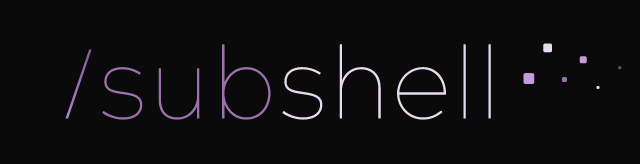
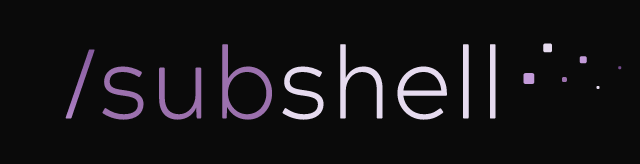
feat(brand): regenerate at Light 300 — wordmark and /s mark
Thin 100 read too weak beside the UI's label weights (operator revision
after seeing it live); measured stem width roughly doubles at icon scale.
Masters, generator font wiring, spec and brand README all follow.

Changed region(s): [[0.3438, 0.2744, 0.7812, 0.7317], [0.125, 0.3049, 0.3125, 0.7317], [0.0938, 0.5488, 0.125, 0.7317]]

diff --git a/brand/generate.ts b/brand/generate.ts
@@ -21,8 +21,8 @@ const DOCS_DIR = path.join(BRAND_DIR, "../docs/assets");
 // brand:generate is a root script, not a turbo task — no cache key to declare for.
 // biome-ignore lint/suspicious/noUndeclaredEnvVars: maintainer-local font path, outside turbo
 const fontDir = process.env.SUBSHELL_BRAND_FONTS_DIR ?? path.join(homedir(), "fonts", "acherus");
-/** Everything — wordmark and mark — is Thin 100 (operator choice after a 16px shoot-out). */
-const fontFiles = ["Acherus-Grotesque-Thin.otf"].map((f) => path.join(fontDir, f));
+/** Everything — wordmark and mark — is Light 300 (operator choice 2026-09-03: Thin read too weak beside the UI's label weights). */
+const fontFiles = ["Acherus-Grotesque-Light.otf"].map((f) => path.join(fontDir, f));
 for (const f of fontFiles) {
   if (!existsSync(f)) {
     console.error(
@@ -64,7 +64,7 @@ function render(master: string, mode: Mode, size: number): Buffer {
     font: {
       fontFiles,
       loadSystemFonts: false, // deterministic: only the licensed faces exist here
-      defaultFontFamily: "Acherus Grotesque Thin",
+      defaultFontFamily: "Acherus Grotesque Light",
     },
   });
   return Buffer.from(resvg.render().asPng());

diff --git a/docs/superpowers/specs/2026-09-02-subshell-branding-design.md b/docs/superpowers/specs/2026-09-02-subshell-branding-design.md
@@ -7,7 +7,7 @@ Tailwind theme, adopting Acherus as a UI font (UI stays on the system stack).
 
 ## 1. The identity
 
-Wordmark `/subshell` set in **Acherus Grotesque Thin (weight 100)**, styled as a directory
+Wordmark `/subshell` set in **Acherus Grotesque Light (weight 300)**, styled as a directory
 path with a terminal "bitcrash" dust tail. Favicon/app mark is the derived glyph **`/s`**.
 
 ### 1.1 Color tokens
@@ -37,7 +37,9 @@ decorative (exempt). All text-bearing elements clear WCAG AA for large text.
 Single line, left to right: gradient slash, `sub` in `brand.sub`, `shell` in `brand.shell`,
 dust tail off the final "ll".
 
-- **Type:** Acherus Grotesque Thin (100), letter-spacing ≈ `0.011em`, lowercase.
+- **Type:** Acherus Grotesque Light (300), letter-spacing ≈ `0.011em`, lowercase. (The lockup
+  was first approved in Thin 100; the operator moved it to Light on 2026-09-03 because Thin
+  read too weak beside the UI's label weights.)
 - **Slash:** the font's own `/`, filled by a vertical `linearGradient`
   (`top→bottom`, stops per §1.1). No other element carries a gradient.
 - **Dust:** six squares (≈ 2px corner rounding at 48px wordmark height) trailing off the
@@ -57,10 +59,9 @@ dust tail off the final "ll".
 
 `/s` — gradient slash + `s` in `brand.shell`, on an `#0a0a0a` tile with ~22% corner radius.
 **The mark never carries dust** — the dust tail belongs to the wordmark only (operator
-decision, 2026-09-02). The mark is **Thin 100 like the wordmark** — the operator chose the
-faithful cut over heavier ones after seeing them rendered at 16/32/64px (2026-09-02); the
-glyph therefore fills ≈⅔ of the tile to buy back legibility, and is centered optically (the
-slash leans left; ~1% right nudge). For maskable PWA and apple-touch variants the tile is
+decision, 2026-09-02). The mark follows the wordmark's weight — Light 300 since
+2026-09-03 (originally Thin 100, revised as too weak beside the UI); the glyph fills ≈⅔ of
+the tile and is centered optically (the slash leans left; ~1% right nudge). For maskable PWA and apple-touch variants the tile is
 full-bleed square and the glyph is kept inside the central 80% safe zone.
 
 ### 1.4 Scale rules
@@ -88,7 +89,7 @@ The font license we hold **prohibits embedding/distributing the font file**. The
    they carry no font data and are build inputs, never served. They live **outside**
    `public/`, so nothing text-based reaches a client.
 4. **Every shipped brand artifact is a PNG** produced by the generator (§3). The licensed
-   fonts stay on the operator's machine (default lookup `~/fonts/acherus/`, overridable with
+   fonts stay on the operator's machine (default lookup `~/fonts/acherus/` (currently `Acherus-Grotesque-Light.otf`), overridable with
    `SUBSHELL_BRAND_FONTS_DIR`). Regeneration is a maintainer act; CI and consumers only ever
    see committed PNGs.
 5. `apps/frontend/public/icons/` previously held served SVG brand files
@@ -101,8 +102,8 @@ The font license we hold **prohibits embedding/distributing the font file**. The
 
 - **Renderer:** `@resvg/resvg-js` (devDependency, pinned). Deterministic rasterizer, proper
   `linearGradient` and text support; fonts supplied explicitly per-run via
-  `fontFiles: [Acherus-Grotesque-Thin.otf]` resolved from `SUBSHELL_BRAND_FONTS_DIR`.
-- **Fail-fast:** if the font dir or the Thin OTF is missing, exit non-zero with a clear
+  `fontFiles: [Acherus-Grotesque-Light.otf]` resolved from `SUBSHELL_BRAND_FONTS_DIR`.
+- **Fail-fast:** if the font dir or the Light OTF is missing, exit non-zero with a clear
   message — never emit fallback-font PNGs.
 - **Single source of truth for sizes:** a `SIZES` table in the script drives every output.
 

diff --git a/brand/README.md b/brand/README.md
@@ -6,9 +6,9 @@ up. Root aliases: `bun run brand:generate`, `bun run brand:test`.
 
 `bun run brand:generate` rasterizes `src/*.svg` masters into the committed PNGs
 (`apps/frontend/public/icons/`, `docs/assets/`). Requires the licensed font at
-`~/fonts/acherus/Acherus-Grotesque-Thin.otf` (or `SUBSHELL_BRAND_FONTS_DIR`).
+`~/fonts/acherus/Acherus-Grotesque-Light.otf` (or `SUBSHELL_BRAND_FONTS_DIR`).
 
-- Everything is Acherus Grotesque Thin 100; the `/s` mark compensates for hairline
+- Everything is Acherus Grotesque **Light 300** (revised from Thin 100 on 2026-09-03 — Thin read too weak in the UI); the `/s` mark compensates for hairline
   rasterization by filling ≈⅔ of the tile (operator choice, 2026-09-02).
 - The masters contain live `<text>` (family name only). **Never** commit the OTFs, never
   ship them as a webfont, never produce outlined SVGs — the license forbids it.
